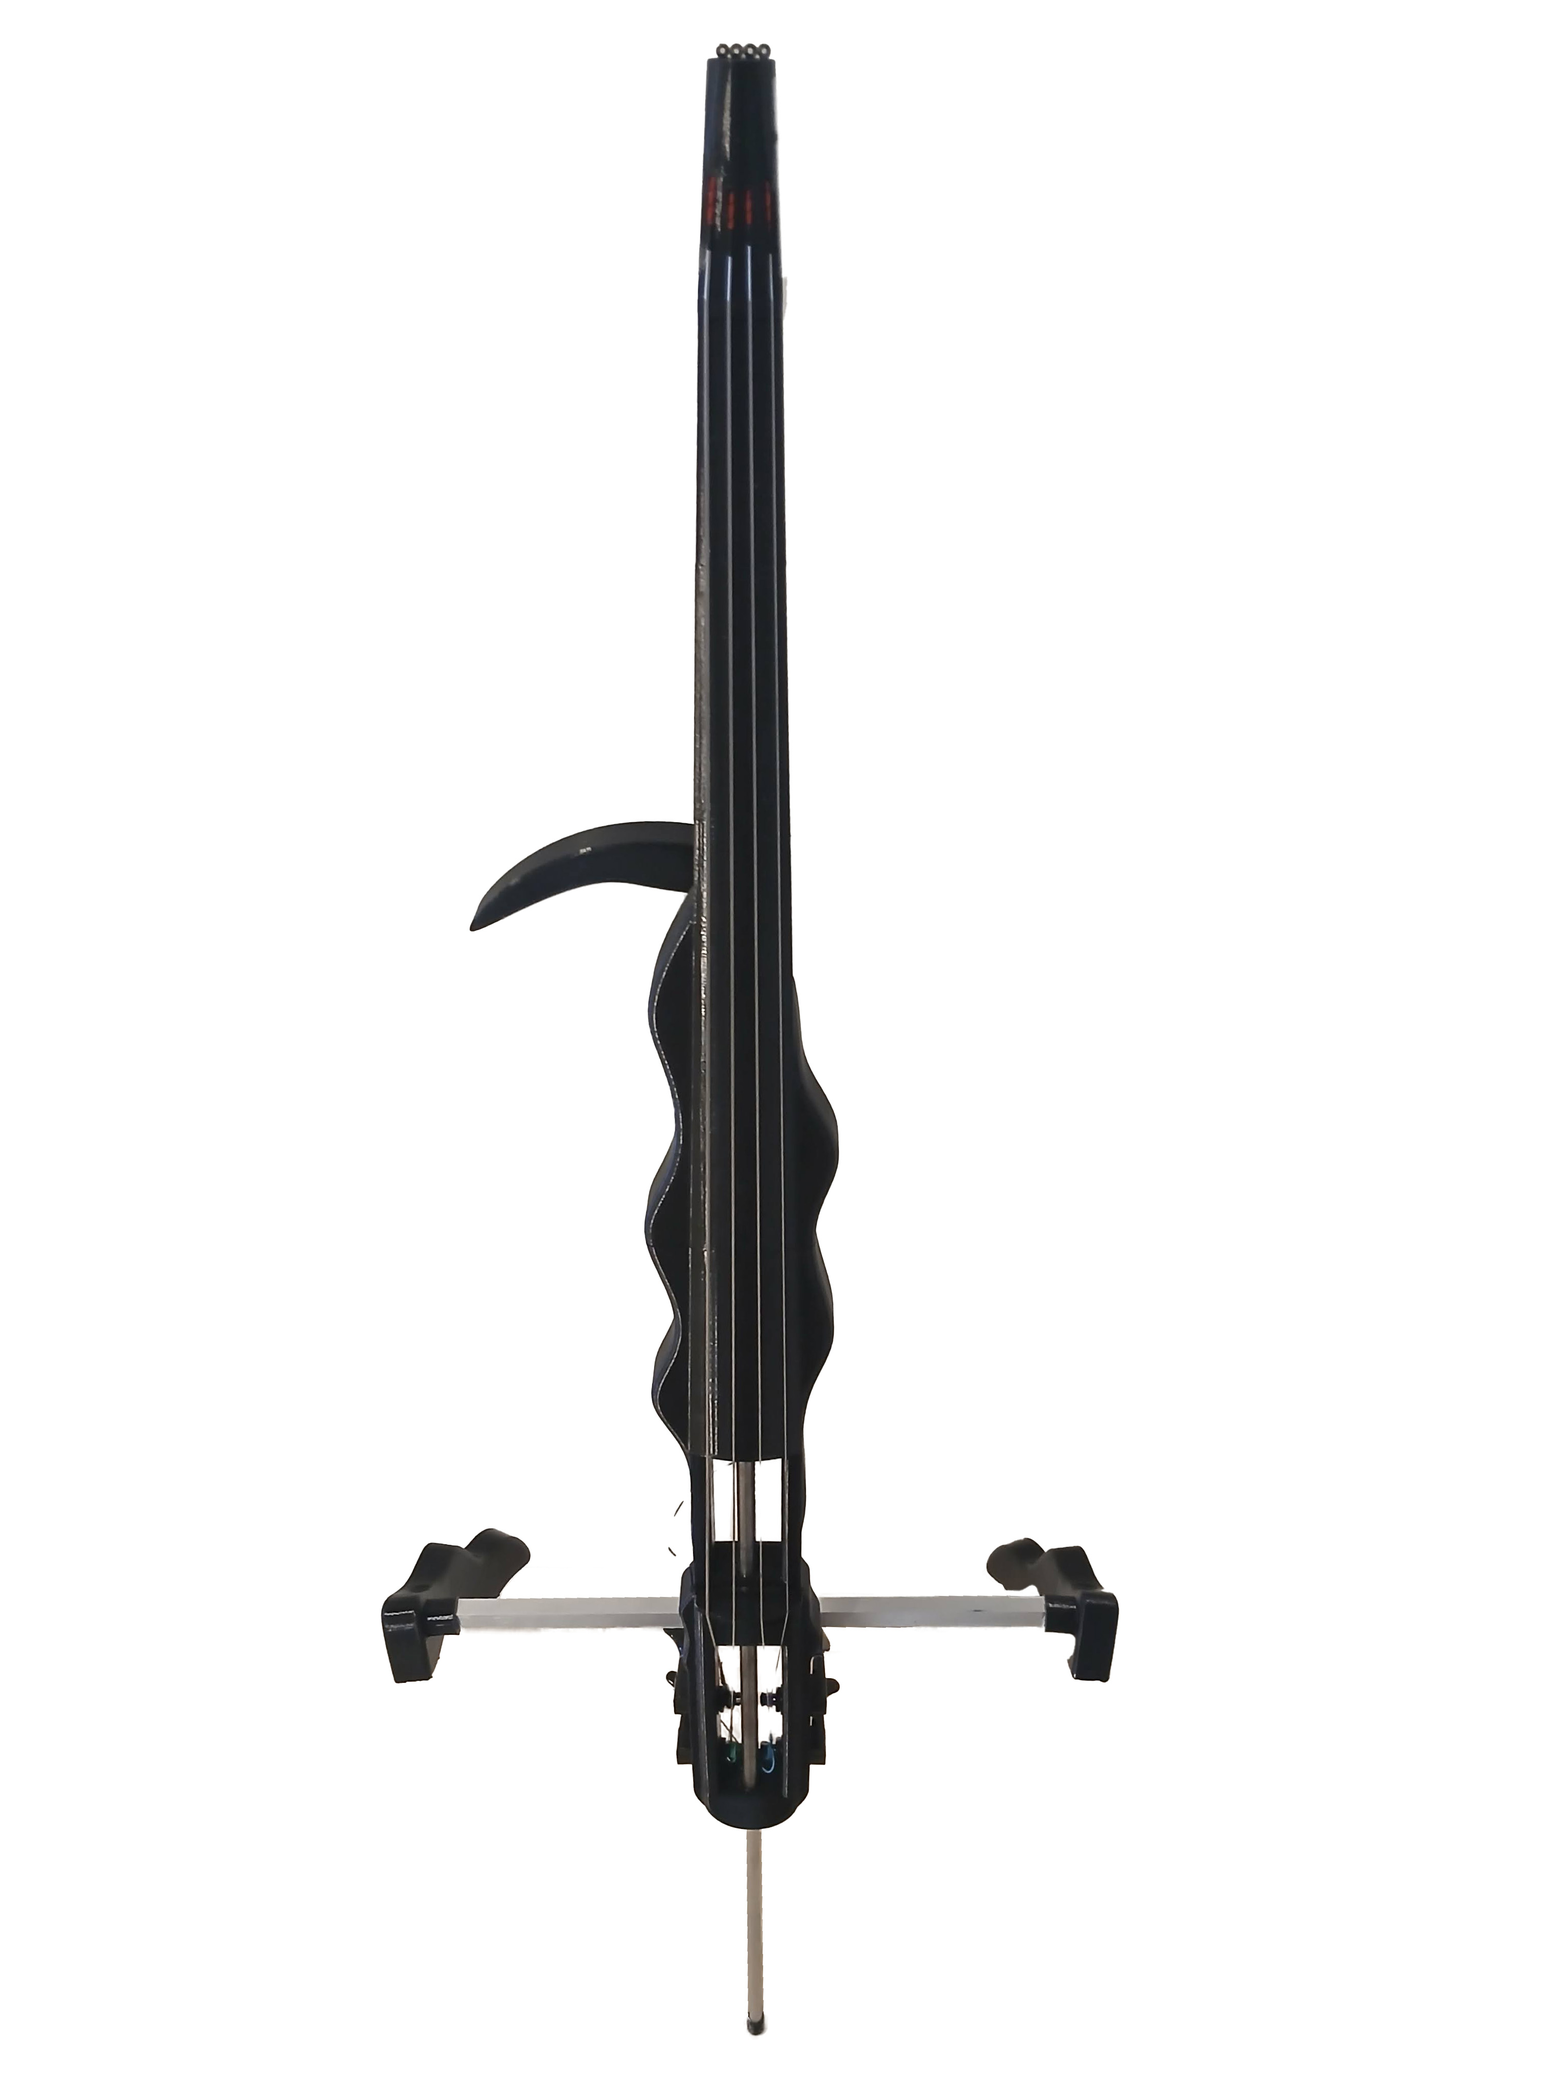
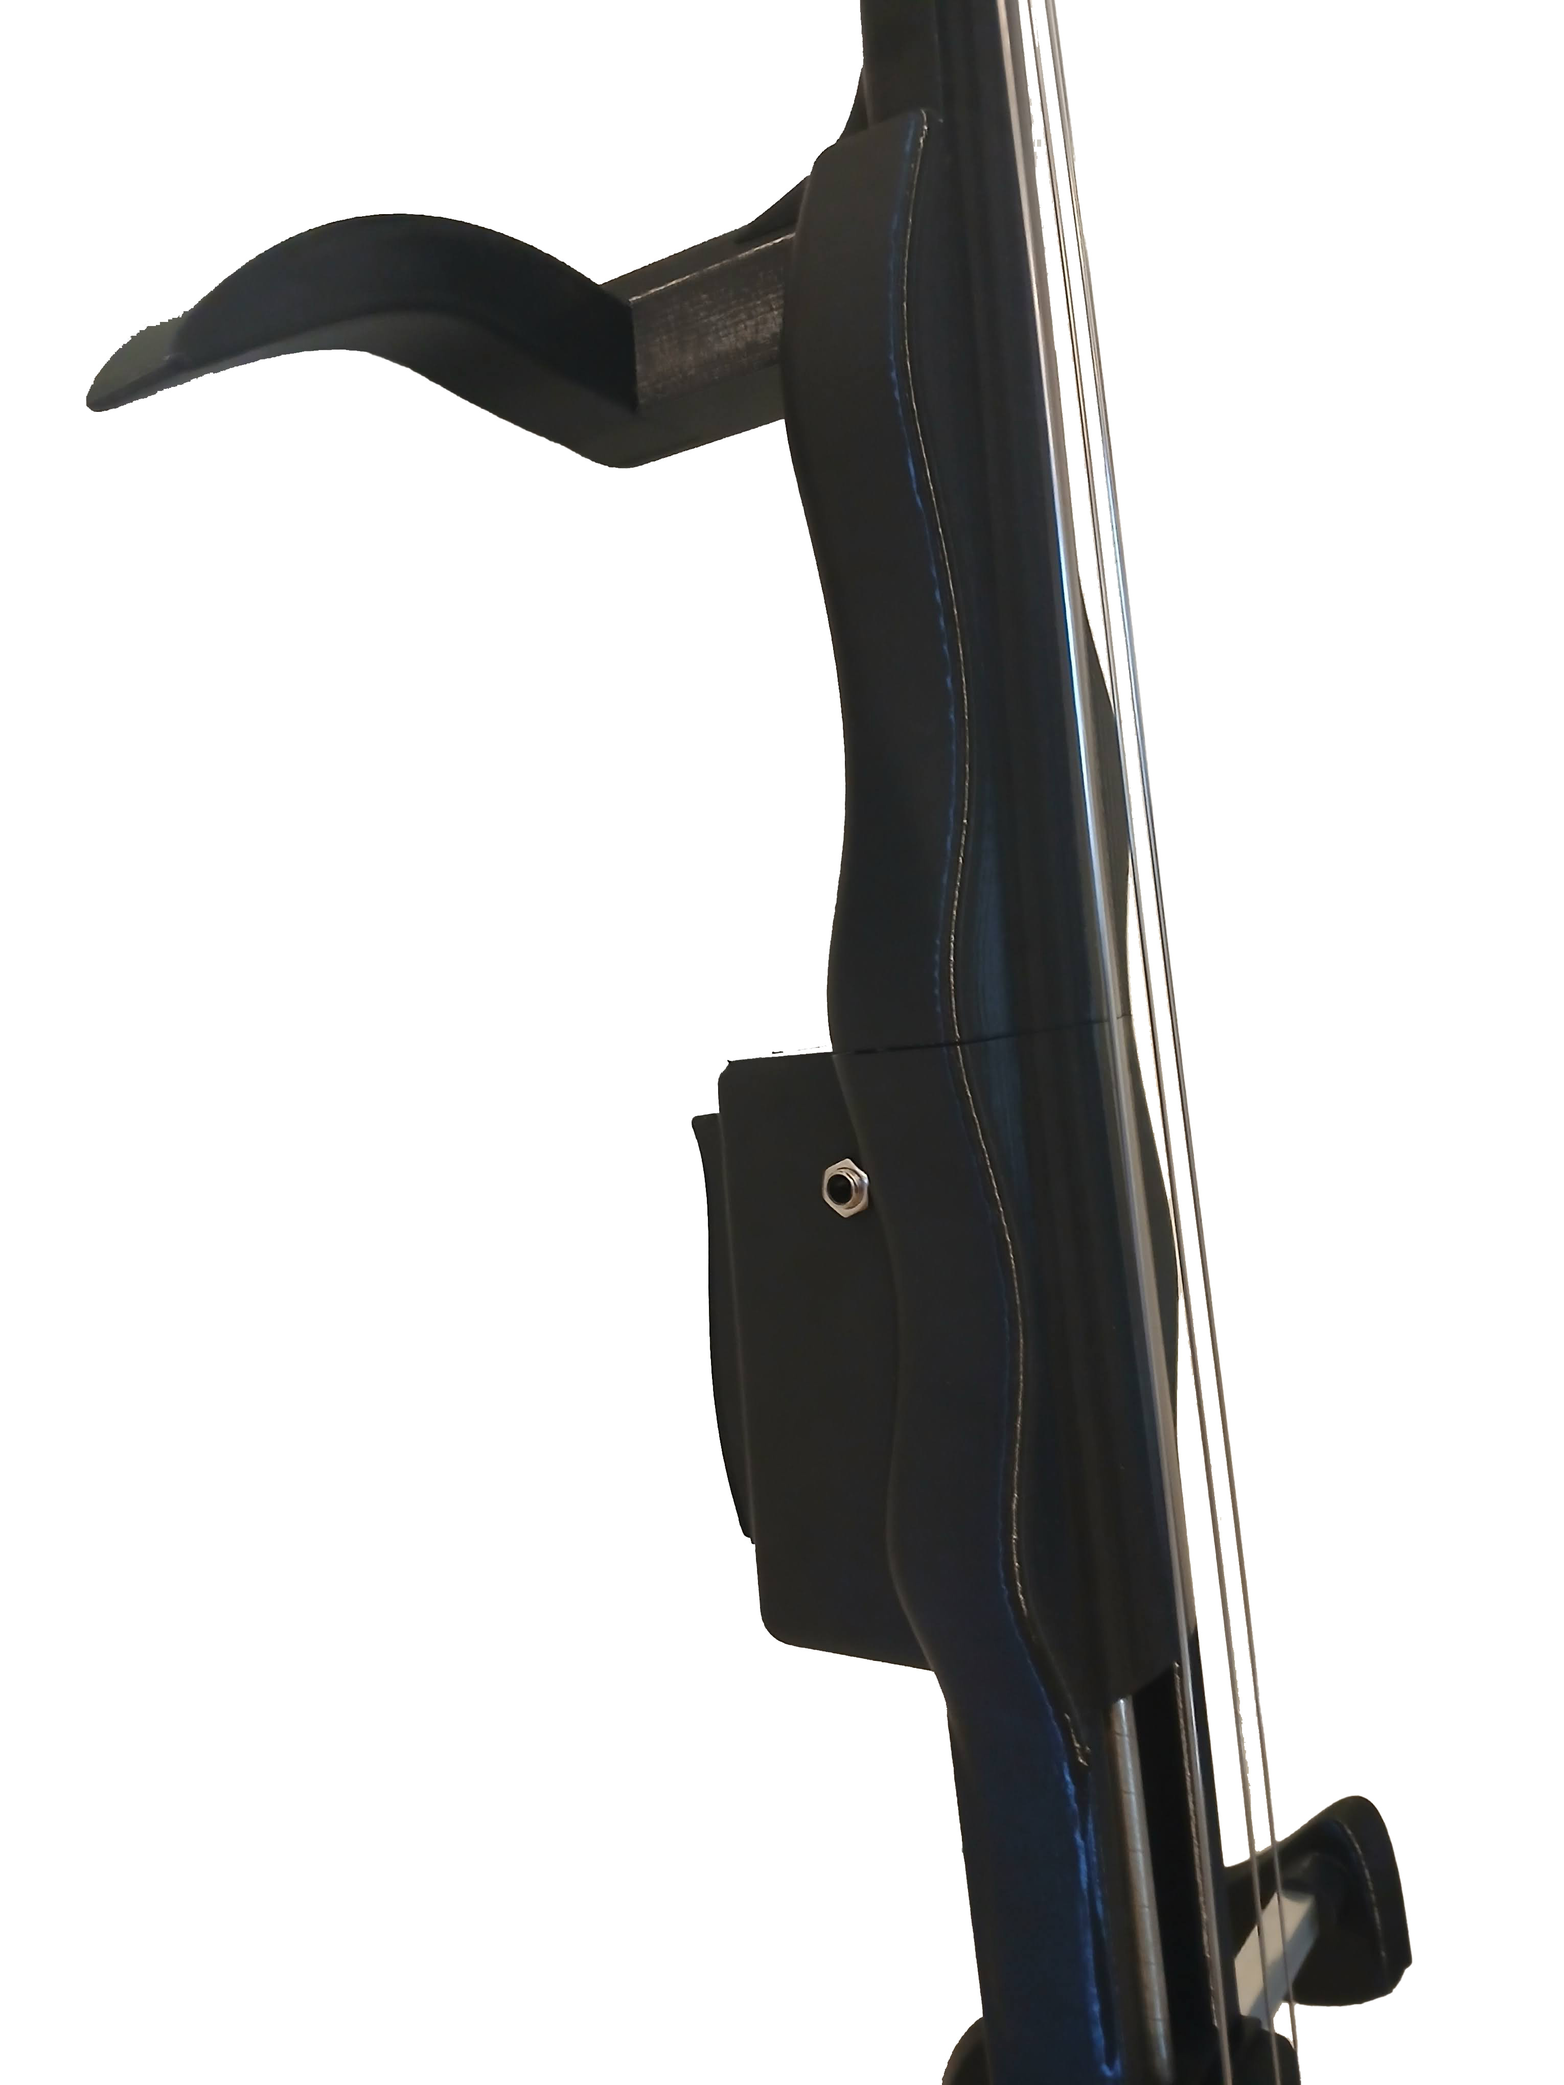
Site updates - published

Changed region(s): [[0.0621, 0.0, 0.9003, 1.0]]

diff --git a/website/travel.html b/website/travel.html
@@ -4,12 +4,12 @@
   <meta charset="utf-8">
   <meta name="viewport" content="width=device-width, initial-scale=1">
   <meta name="description" content="Explore Vertex Luthier's Packable 3D-Printed Electric Travel Cello with a hard-shell carrying case, carbon fiber endpin, and onboard preamp.">
-  <title>Packable Travel Cello — Vertex Luthier</title>
+  <title>Packable Travel Cello | Vertex Luthier</title>
   <link rel="stylesheet" href="styles.css">
 </head>
 <body>
   <header class="site-header">
-    <a href="index.html"><img src="images/vertex-luthier-header.png" alt="Vertex Luthier — home" width="583" height="702"></a>
+    <a href="index.html"><img src="images/vertex-luthier-header.png" alt="Vertex Luthier, home" width="647" height="585"></a>
   </header>
   <main class="product">
     <a class="back-link" href="index.html">← All cellos</a>
@@ -21,10 +21,10 @@
     </header>
     <div class="product-layout">
       <section class="gallery" aria-label="Packable cello photos">
-        <a href="https://github.com/user-attachments/assets/528e9c36-6156-4f42-bef4-360f061d1dc0"><img src="https://github.com/user-attachments/assets/528e9c36-6156-4f42-bef4-360f061d1dc0" alt="Packable electric travel cello — main product photo"></a>
-        <a href="https://github.com/user-attachments/assets/e6e2ad89-6300-4d5e-a9c7-e74ebc4092d1"><img src="https://github.com/user-attachments/assets/e6e2ad89-6300-4d5e-a9c7-e74ebc4092d1" alt="Packable electric travel cello — product photo 2" loading="lazy"></a>
-        <a href="https://github.com/user-attachments/assets/34866d29-952b-4910-b4d3-9e315be1b0ce"><img src="https://github.com/user-attachments/assets/34866d29-952b-4910-b4d3-9e315be1b0ce" alt="Packable electric travel cello — product photo 3" loading="lazy"></a>
-        <a href="https://github.com/user-attachments/assets/1e499037-7d72-4bd8-abfb-869cfb30cab2"><img src="https://github.com/user-attachments/assets/1e499037-7d72-4bd8-abfb-869cfb30cab2" alt="Packable electric travel cello — product photo 4" loading="lazy"></a>
+        <a href="https://github.com/user-attachments/assets/528e9c36-6156-4f42-bef4-360f061d1dc0"><img src="https://github.com/user-attachments/assets/528e9c36-6156-4f42-bef4-360f061d1dc0" alt="Packable electric travel cello, main product photo"></a>
+        <a href="https://github.com/user-attachments/assets/e6e2ad89-6300-4d5e-a9c7-e74ebc4092d1"><img src="https://github.com/user-attachments/assets/e6e2ad89-6300-4d5e-a9c7-e74ebc4092d1" alt="Packable electric travel cello, product photo 2" loading="lazy"></a>
+        <a href="https://github.com/user-attachments/assets/34866d29-952b-4910-b4d3-9e315be1b0ce"><img src="https://github.com/user-attachments/assets/34866d29-952b-4910-b4d3-9e315be1b0ce" alt="Packable electric travel cello, product photo 3" loading="lazy"></a>
+        <a href="https://github.com/user-attachments/assets/1e499037-7d72-4bd8-abfb-869cfb30cab2"><img src="https://github.com/user-attachments/assets/1e499037-7d72-4bd8-abfb-869cfb30cab2" alt="Packable electric travel cello, product photo 4" loading="lazy"></a>
       </section>
       <section class="details" aria-labelledby="about-title">
         <h2 id="about-title">Made to travel</h2>
@@ -52,5 +52,12 @@
       </section>
     </div>
   </main>
+  <footer>
+    <p>Designed and built by Vertex Luthier Noah Connell. Check Etsy for current prices and availability.</p>
+    <nav aria-label="Social and shop links">
+      <a href="https://www.youtube.com/@VertexLuthier">YouTube</a>
+      <a href="https://www.etsy.com/shop/VertexLuthier">Etsy</a>
+    </nav>
+  </footer>
 </body>
 </html>

diff --git a/website/lightning.html b/website/lightning.html
@@ -4,17 +4,17 @@
   <meta charset="utf-8">
   <meta name="viewport" content="width=device-width, initial-scale=1">
   <meta name="description" content="Meet the 3D-Printed Electric Lightning Cello by Vertex Luthier: bold lightning-inspired styling, steel reinforcement, and an onboard preamp.">
-  <title>Lightning Cello — Vertex Luthier</title>
+  <title>Lightning Cello | Vertex Luthier</title>
   <link rel="stylesheet" href="styles.css">
 </head>
 <body>
   <header class="site-header">
-    <a href="index.html"><img src="images/vertex-luthier-header.png" alt="Vertex Luthier — home" width="583" height="702"></a>
+    <a href="index.html"><img src="images/vertex-luthier-header.png" alt="Vertex Luthier, home" width="647" height="585"></a>
   </header>
   <main class="product">
     <a class="back-link" href="index.html">← All cellos</a>
     <header class="product-header">
-      <h1>3D-Printed Electric Lightning Cello – ready to play!</h1>
+      <h1>3D-Printed Electric Lightning Cello: ready to play!</h1>
       <p class="price">$975.00 USD</p>
       <a class="button" href="https://www.etsy.com/listing/4458208088/3d-printed-electric-lightning-cello">Buy on Etsy</a>
       <p class="source-note">Check Etsy for current pricing and availability.</p>
@@ -22,7 +22,7 @@
     <div class="product-layout">
       <section class="gallery" aria-label="Lightning cello photos">
         <a href="images/lightning-main.jpg"><img src="images/lightning-main.jpg" alt="Blue Lightning electric cello against a tree" width="1200" height="1600"></a>
-        <a href="images/lightning-detail.jpg"><img src="images/lightning-detail.jpg" alt="Lightning electric cello — additional product photo" width="3060" height="4080" loading="lazy"></a>
+        <a href="images/lightning-detail.jpg"><img src="images/lightning-detail.jpg" alt="Lightning electric cello, additional product photo" width="3060" height="4080" loading="lazy"></a>
       </section>
       <section class="details" aria-labelledby="about-title">
         <h2 id="about-title">Bold by design</h2>
@@ -32,9 +32,16 @@
         <p>An onboard preamp lets you plug straight into your bass amp or headphone amp. Connect to your amp of choice and start performing.</p>
         <p>Case and bow are not included. Any standard cello bow works.</p>
         <h2>Make it your own</h2>
-        <p>Looking for something custom? Message us on Etsy with questions or to design a completely custom electric cello. Playful, fun, intense — from dragons to puppies, we can match your style.</p>
+        <p>Looking for something custom? Message us on Etsy with questions or to design a completely custom electric cello. Playful, fun, or intense: from dragons to puppies, we can match your style.</p>
       </section>
     </div>
   </main>
+  <footer>
+    <p>Designed and built by Vertex Luthier Noah Connell. Check Etsy for current prices and availability.</p>
+    <nav aria-label="Social and shop links">
+      <a href="https://www.youtube.com/@VertexLuthier">YouTube</a>
+      <a href="https://www.etsy.com/shop/VertexLuthier">Etsy</a>
+    </nav>
+  </footer>
 </body>
 </html>

diff --git a/website/wavy.html b/website/wavy.html
@@ -4,12 +4,12 @@
   <meta charset="utf-8">
   <meta name="viewport" content="width=device-width, initial-scale=1">
   <meta name="description" content="Meet the made-to-order 3D-Printed Electric Wavy Cello by Vertex Luthier, with a durable PETG body and onboard preamp.">
-  <title>Wavy Cello — Vertex Luthier</title>
+  <title>Wavy Cello | Vertex Luthier</title>
   <link rel="stylesheet" href="styles.css">
 </head>
 <body>
   <header class="site-header">
-    <a href="index.html"><img src="images/vertex-luthier-header.png" alt="Vertex Luthier — home" width="583" height="702"></a>
+    <a href="index.html"><img src="images/vertex-luthier-header.png" alt="Vertex Luthier, home" width="647" height="585"></a>
   </header>
   <main class="product">
     <a class="back-link" href="index.html">← All cellos</a>
@@ -21,8 +21,8 @@
     </header>
     <div class="product-layout">
       <section class="gallery" aria-label="Wavy cello photos">
-        <a href="images/wavy-main.jpg"><img src="images/wavy-main.jpg" alt="Wavy electric cello — main product photo" width="3060" height="4080"></a>
-        <a href="images/wavy-detail.jpg"><img src="images/wavy-detail.jpg" alt="Wavy electric cello — secondary product photo" width="3060" height="4080" loading="lazy"></a>
+        <a href="images/wavy-main.jpg"><img src="images/wavy-main.jpg" alt="Wavy electric cello, main product photo" width="3060" height="4080"></a>
+        <a href="images/wavy-detail.jpg"><img src="images/wavy-detail.jpg" alt="Wavy electric cello, secondary product photo" width="3060" height="4080" loading="lazy"></a>
       </section>
       <section class="details" aria-labelledby="about-title">
         <h2 id="about-title">As unique as your sound</h2>
@@ -32,9 +32,16 @@
         <p>An onboard preamp lets you plug straight into your bass amp or headphone amp. Simply connect to your amp of choice and start performing.</p>
         <p>Case and bow are not included. It is compatible with any standard cello bow.</p>
         <h2>Make it your own</h2>
-        <p>Message us on Etsy with questions or to design a completely custom electric cello. Whether playful, fun, or intense — dragons, puppies, or another theme — we can match your style.</p>
+        <p>Message us on Etsy with questions or to design a completely custom electric cello. Whether playful, fun, or intense (dragons, puppies, or another theme), we can match your style.</p>
       </section>
     </div>
   </main>
+  <footer>
+    <p>Designed and built by Vertex Luthier Noah Connell. Check Etsy for current prices and availability.</p>
+    <nav aria-label="Social and shop links">
+      <a href="https://www.youtube.com/@VertexLuthier">YouTube</a>
+      <a href="https://www.etsy.com/shop/VertexLuthier">Etsy</a>
+    </nav>
+  </footer>
 </body>
 </html>

diff --git a/website/styles.css b/website/styles.css
@@ -1,8 +1,8 @@
 :root {
-  color-scheme: dark;
+  color-scheme: light;
   font-family: "Helvetica Neue", Helvetica, Arial, sans-serif;
-  background: #000;
-  color: #fff;
+  background: #fff;
+  color: #000;
 }
 
 * {
@@ -19,11 +19,12 @@ a {
 }
 
 a:focus-visible {
-  outline: 3px solid #fff;
+  outline: 3px solid currentColor;
   outline-offset: 6px;
 }
 
-.home,
+.collection,
+footer,
 .product {
   width: min(100% - 40px, 1100px);
   margin: 0 auto;
@@ -31,6 +32,9 @@ a:focus-visible {
 }
 
 .hero {
+  padding: 32px 20px 48px;
+  background: #040517 radial-gradient(ellipse at top center, #202b3d, #040517 70%);
+  color: #fff;
   text-align: center;
 }
 
@@ -45,6 +49,8 @@ a:focus-visible {
 
 .site-header {
   padding: 20px;
+  background: #040517 radial-gradient(ellipse at top center, #202b3d, #040517 70%);
+  color: #fff;
   border-bottom: 1px solid #333;
   text-align: center;
 }
@@ -71,7 +77,7 @@ a:focus-visible {
   justify-content: center;
   flex-wrap: wrap;
   gap: 20px;
-  margin: 30px 0 48px;
+  margin: 30px 0 0;
 }
 
 .button {
@@ -118,9 +124,9 @@ h2 {
 .card {
   display: block;
   overflow: hidden;
-  border: 1px solid #333;
+  border: 1px solid #ddd;
   border-radius: 8px;
-  background: #111;
+  background: #fff;
   text-align: center;
   text-decoration: none;
 }
@@ -142,8 +148,9 @@ h2 {
   display: block;
   width: 100%;
   height: 240px;
+  padding-top: 6px;
   object-fit: contain;
-  background: #171717;
+  background: #fff;
 }
 
 .photo-pending {
@@ -151,8 +158,8 @@ h2 {
   place-items: center;
   min-height: 240px;
   padding: 24px;
-  background: #171717;
-  color: #bbb;
+  background: #fff;
+  color: #555;
   text-align: center;
 }
 
@@ -197,7 +204,7 @@ h2 {
   max-height: 650px;
   object-fit: contain;
   border-radius: 6px;
-  background: #171717;
+  background: #fff;
 }
 
 .details h2 {
@@ -206,7 +213,7 @@ h2 {
 
 .source-note,
 footer {
-  color: #bbb;
+  color: #555;
   font-size: 14px;
 }
 
@@ -215,7 +222,36 @@ footer {
   text-align: center;
 }
 
+footer nav {
+  display: flex;
+  justify-content: center;
+  flex-wrap: wrap;
+  gap: 24px;
+}
+
+footer nav a {
+  padding: 8px;
+}
+
 @media (max-width: 640px) {
+  .hero {
+    padding: 16px 20px 24px;
+  }
+
+  .logo {
+    width: min(100%, 320px);
+    height: auto;
+    max-height: 180px;
+  }
+
+  .site-header {
+    padding: 12px 20px;
+  }
+
+  .site-header img {
+    height: 80px;
+  }
+
   .cards,
   .product-layout {
     grid-template-columns: 1fr;
@@ -223,6 +259,7 @@ footer {
 
   .actions {
     gap: 16px;
+    margin-top: 16px;
   }
 
   .actions .button {

diff --git a/website/index.html b/website/index.html
@@ -4,13 +4,13 @@
   <meta charset="utf-8">
   <meta name="viewport" content="width=device-width, initial-scale=1">
   <meta name="description" content="Custom designed, 3D-printed electric cellos by Vertex Luthier. Explore the Lightning, Wavy, and Packable Travel cellos.">
-  <title>Vertex Luthier — Electric Cellos</title>
+  <title>Vertex Luthier | Electric Cellos</title>
   <link rel="stylesheet" href="styles.css">
 </head>
 <body>
   <main class="home">
     <header class="hero">
-      <img class="logo" src="images/vertex-luthier-logo.png" alt="Vertex Luthier" width="1376" height="768">
+      <img class="logo" src="images/vertex-luthier-header.png" alt="Vertex Luthier" width="647" height="585">
       <div class="actions">
         <a class="button" href="https://www.etsy.com/shop/VertexLuthier">Visit Our Etsy Shop to Buy</a>
         <a class="button youtube" href="https://www.youtube.com/@VertexLuthier">Visit Our YouTube Channel for Instructions</a>
@@ -29,7 +29,7 @@
         </article>
         <article class="card">
           <a href="wavy.html">
-            <img src="images/wavy-main.jpg" alt="Wavy electric cello — main product photo" width="3060" height="4080" loading="lazy">
+            <img src="images/wavy-main.jpg" alt="Wavy electric cello, main product photo" width="3060" height="4080" loading="lazy">
             <h2>Wavy Cello</h2>
           </a>
           <p>$655.00 USD</p>
@@ -37,7 +37,7 @@
         </article>
         <article class="card">
           <a href="travel.html">
-            <img src="https://github.com/user-attachments/assets/528e9c36-6156-4f42-bef4-360f061d1dc0" alt="Packable electric travel cello — main product photo" loading="lazy">
+            <img src="https://github.com/user-attachments/assets/528e9c36-6156-4f42-bef4-360f061d1dc0" alt="Packable electric travel cello, main product photo" loading="lazy">
             <h2>Packable Travel Cello</h2>
           </a>
           <p>$1,200.00 USD</p>
@@ -45,7 +45,13 @@
         </article>
       </div>
     </section>
-    <footer>Designed and built by Vertex Luthier Noah Connell. Check Etsy for current prices and availability.</footer>
   </main>
+  <footer>
+    <p>Designed and built by Vertex Luthier Noah Connell. Check Etsy for current prices and availability.</p>
+    <nav aria-label="Social and shop links">
+      <a href="https://www.youtube.com/@VertexLuthier">YouTube</a>
+      <a href="https://www.etsy.com/shop/VertexLuthier">Etsy</a>
+    </nav>
+  </footer>
 </body>
 </html>
